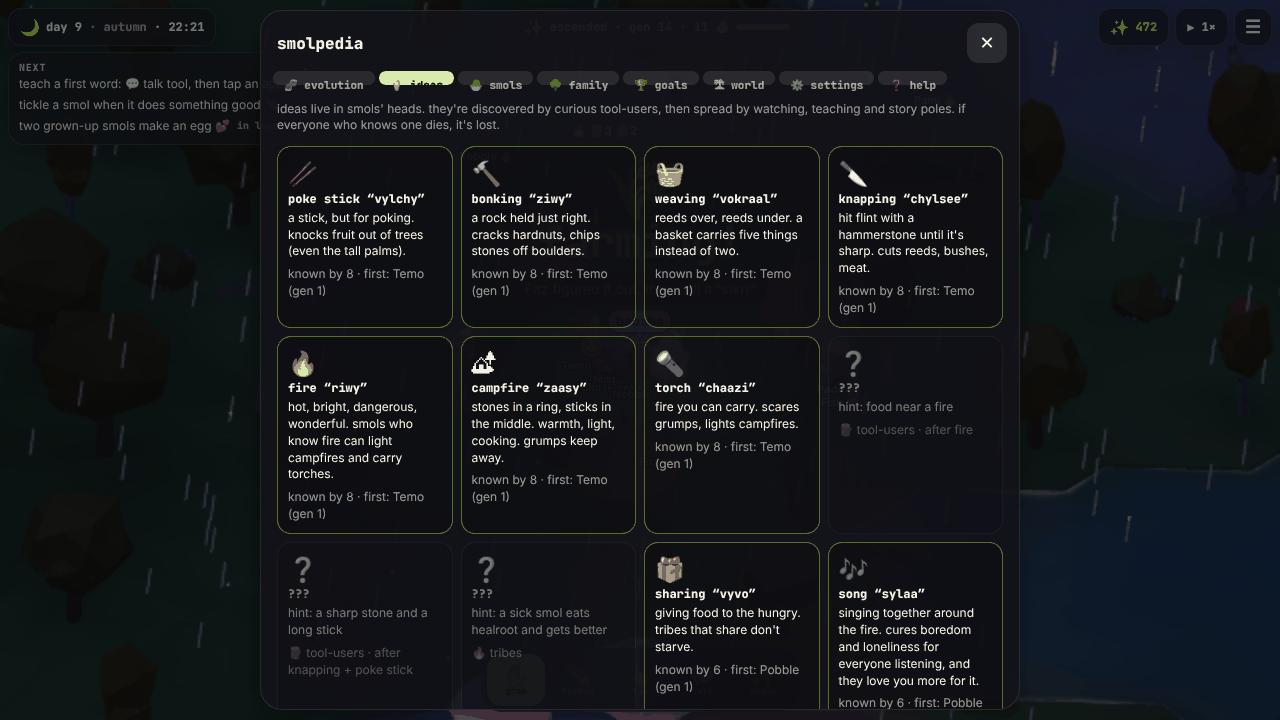
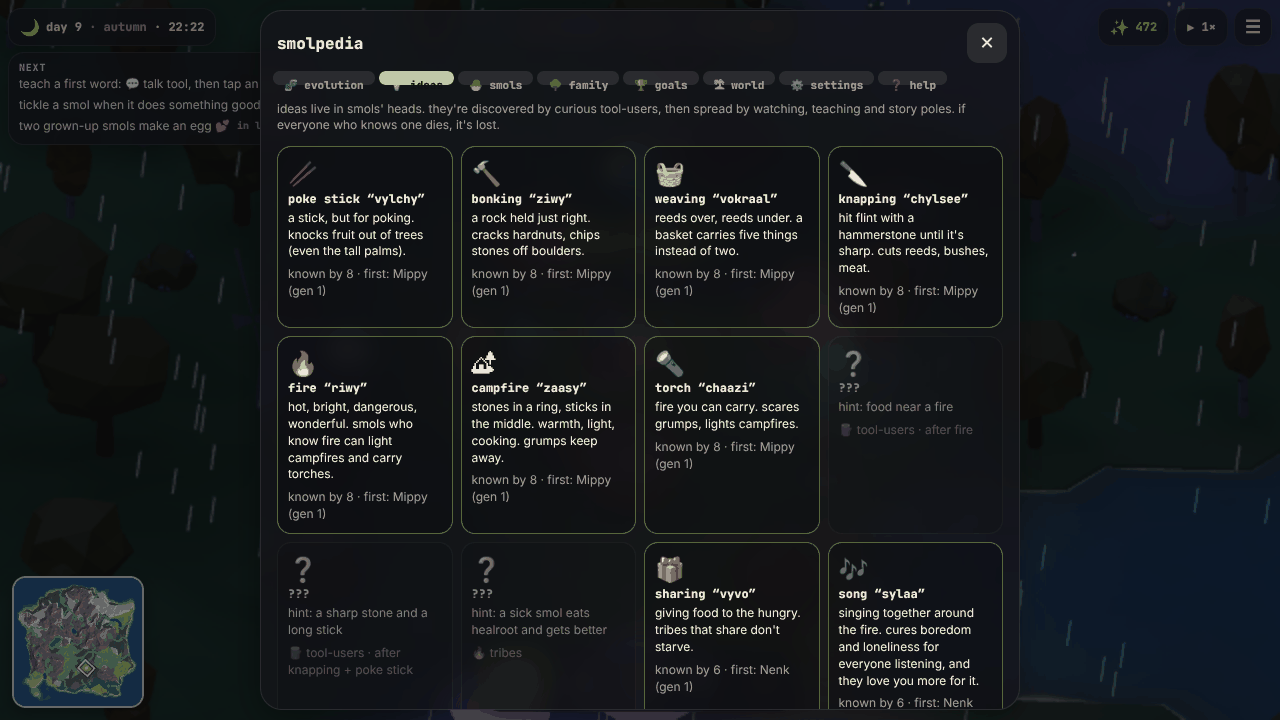
smol brains 2.1: version bump, listing, screenshots
Claude-Session: https://claude.ai/code/session_01GQ5GTfFtnnu5E9Fe66Wg8K

diff --git a/games/smol-brains/index.html b/games/smol-brains/index.html
@@ -38,7 +38,7 @@
     <div class="ad-slot" data-slot="player-top" aria-hidden="true"></div>
 
     <div class="player-layout">
-      <section class="player" id="player" aria-label="smol brains game" data-title="smol brains" data-url="https://computercooked.com/games/smol-brains/" data-version="2">
+      <section class="player" id="player" aria-label="smol brains game" data-title="smol brains" data-url="https://computercooked.com/games/smol-brains/" data-version="2.1">
         <div class="player-stage">
           <div class="stage-boot" aria-hidden="true">
             <span class="boot-logo"></span>
@@ -75,7 +75,7 @@
         <div class="about-card" data-how-to>
           <h2>// smol brains</h2>
           <p>an island of tiny creatures with real neural-network brains. they evolve, invent fire, build villages and pray to you. they will learn the wrong things.</p>
-          <p><b>controls:</b> drag to pan, pinch or wheel to zoom, twist or right-drag to rotate. tools: grab (carry, throw), tickle (reward), tap (scold), talk (teach words), magic (miracles). wasd pan, q/e rotate, 1-5 tools, space pause, [ ] speed, b brain viewer.</p>
+          <p><b>controls:</b> drag to pan, pinch or wheel to zoom, twist or right-drag to rotate, tap or drag the map to jump. tools: grab (carry, throw, rescue), tickle (reward), tap (scold), talk (teach words), magic (miracles). wasd pan, q/e rotate, 1-5 tools, space pause, [ ] speed, b brain viewer, m map.</p>
         </div>
         <div class="about-card">
           <h2>// made by computer cooked</h2>
